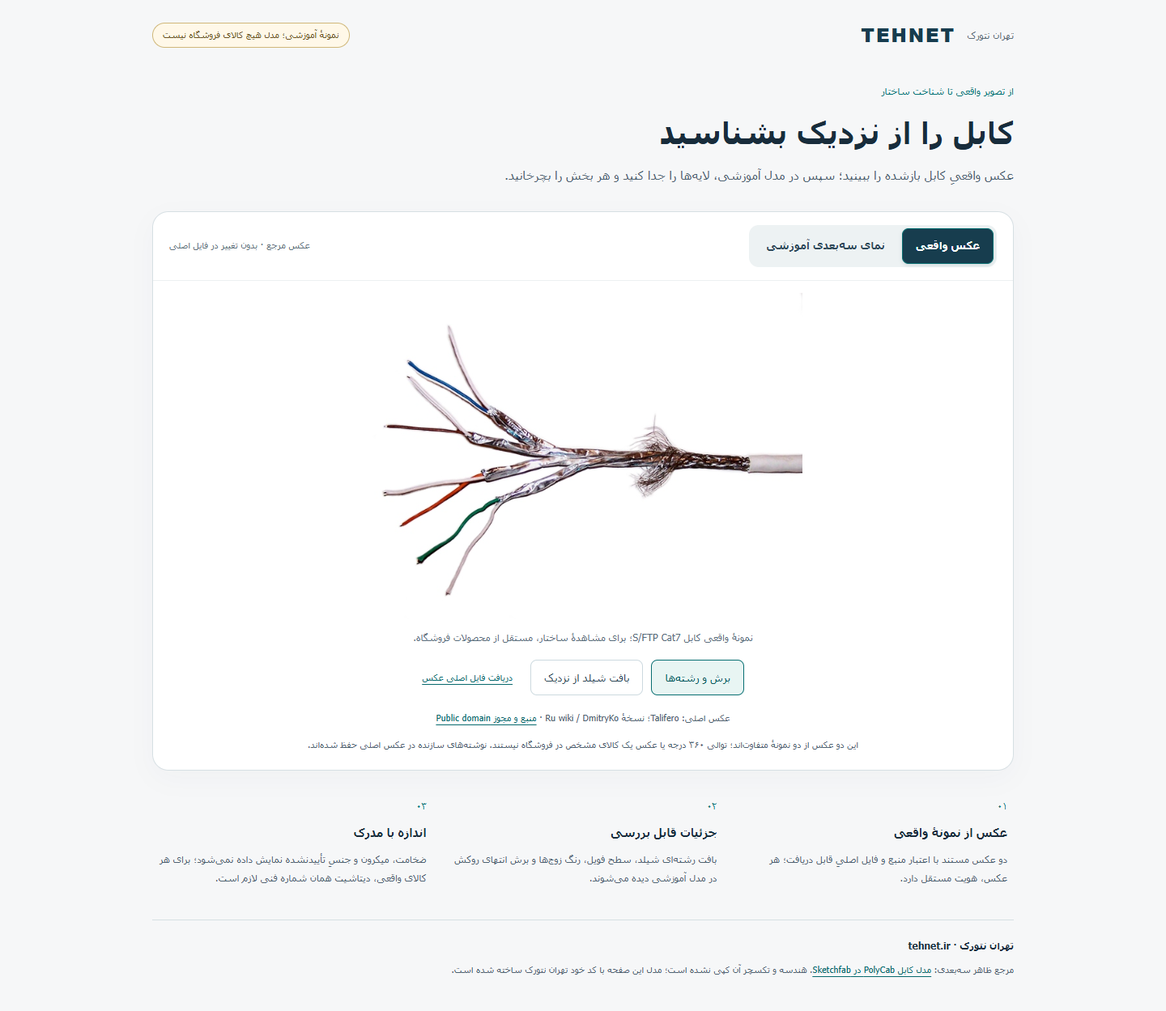
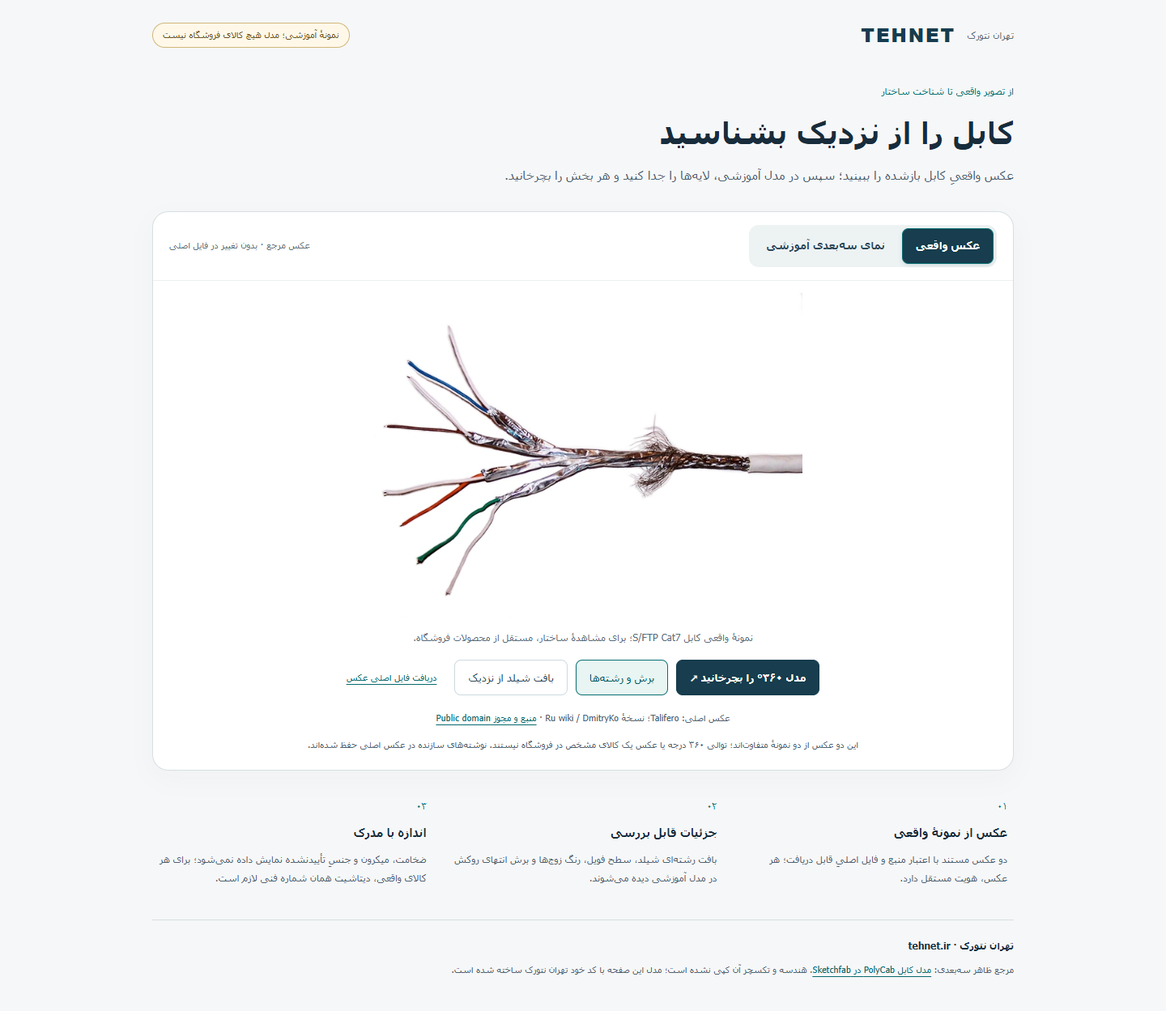
feat: expose interactive cable rotation zoom and fullscreen controls

Changed region(s): [[0.3438, 0.6245, 0.7188, 0.6869]]

diff --git a/ops/visuals/cable-demo.css b/ops/visuals/cable-demo.css
@@ -1,2 +1,3 @@
 :root{--tn-ink:#182c3b;--tn-muted:#4e6271;--tn-accent:#076e71;--tn-surface:#f4f6f7;--tn-border:#d6dfe3}
+.open-model-cta{background:#173d4e;color:white;border-color:#173d4e;font-weight:700}.gesture-help{font-size:12px;background:#eaf4f3;border-radius:10px;padding:12px 14px;margin-block:14px;color:#24535b}.model-canvas{position:relative}.model-canvas model-viewer{cursor:grab}.model-canvas model-viewer:active{cursor:grabbing}.model-toolbar{display:flex;justify-content:center;gap:8px;flex-wrap:wrap;padding:12px 6px;background:#f4f7f8;border:1px solid #e1e8eb;border-radius:12px;margin-block:10px}.model-toolbar button{background:#fff;font-size:12px!important;min-height:44px}.model-toolbar [data-demo-action=rotate][aria-pressed=true]{background:#173d4e;color:white}.demo-status{font-size:11px;min-height:21px}.model-canvas:fullscreen{display:flex;flex-direction:column;width:100vw;height:100dvh;background:#f2f4f6;padding:12px}.model-canvas:fullscreen [data-tn-model-stage]{flex:1;min-height:0}.tn-reviewed-model .model-canvas:fullscreen model-viewer{height:100%;max-height:none;margin:0;border:0}.model-canvas:fullscreen .model-toolbar{margin-bottom:0;flex-shrink:0}@media(max-width:650px){.photo-options .open-model-cta{flex-basis:100%;font-size:13px}.model-toolbar{gap:6px}.model-toolbar button{flex:1;min-width:90px;padding:8px!important}.gesture-help{font-size:11px}.model-canvas:fullscreen{padding:6px}.model-toolbar [data-demo-action=zoom-in],.model-toolbar [data-demo-action=zoom-out]{min-width:70px}}
 *{box-sizing:border-box}body{margin:0;background:#f6f7f8;color:var(--tn-ink);font:15px/1.9 Tahoma,Arial,sans-serif}main{max-width:1120px;margin:auto;padding:26px 28px 32px}a{color:#07696d;text-underline-offset:4px}header{display:flex;justify-content:space-between;align-items:center;gap:18px;flex-wrap:wrap}.wordmark{font:800 23px/1.5 Arial,sans-serif;letter-spacing:2px;text-decoration:none;color:#173c4e;display:flex;align-items:center;gap:14px;direction:ltr}.wordmark span{font:12px Tahoma,sans-serif;letter-spacing:0;direction:rtl;color:#5b6c77}.tag{font-size:11px;border:1px solid #cfb779;background:#fff8e8;color:#69511f;padding:4px 12px;border-radius:30px}.intro{padding:36px 0 22px}.eyebrow{font-size:12px;color:#067477}h1{font-size:clamp(25px,4vw,37px);line-height:1.6;margin:9px 0}h2{font-size:17px}p{color:var(--tn-muted);margin:8px 0}.intro p{max-width:760px}.gallery{background:#fff;border:1px solid var(--tn-border);border-radius:20px;overflow:hidden;box-shadow:0 10px 32px #20344107}.gallery-bar{display:flex;gap:12px;align-items:center;justify-content:space-between;padding:16px 20px;border-bottom:1px solid #edf0f2}.view-switch{display:flex;gap:4px;padding:4px;background:#edf2f3;border-radius:12px}.view-switch button{background:transparent;border-color:transparent;font-weight:700}.view-switch button[aria-pressed=true]{background:#173d4e;color:#fff;box-shadow:0 2px 5px #12344120}.gallery-note{font-size:11px;color:#61717b}button{font:inherit;font-size:13px;color:#2d4858;border:1px solid #ccd9df;background:#fff;border-radius:8px;min-height:44px;padding:8px 16px;cursor:pointer}button:hover{border-color:#087b7e}button[aria-pressed=true]{border-color:#076e71;background:#e8f5f3;color:#07595d}button:focus-visible,input:focus-visible,a:focus-visible{outline:3px solid #087b7e;outline-offset:4px}button:disabled{opacity:.6;cursor:wait}[hidden]{display:none!important}.photo-main{margin:0;padding:14px 22px 0}.photo-main img{display:block;width:100%;height:405px;object-fit:contain;background:white}.photo-main figcaption{font-size:12px;text-align:center;color:#586d7b;padding-top:10px}.photo-options{display:flex;align-items:center;justify-content:center;gap:10px;flex-wrap:wrap;padding:17px 22px 6px}.photo-options a{font-size:11px;margin-inline-start:12px}.photo-credit{font-size:11px;text-align:center;padding:4px 20px}.caption-note{max-width:780px;text-align:center;font-size:11px;margin:8px auto 20px;padding-inline:20px}.tn-reviewed-model{border:0;border-radius:0;margin:0;padding:20px}.tn-reviewed-model h2{margin:0}.model-caption{font-size:12px}.tn-reviewed-model model-viewer{height:450px;max-height:65vh;background:radial-gradient(ellipse at 50% 65%,#fff 0,#f1f3f5 70%);margin-top:12px;border:1px solid #edf0f2}.tn-reviewed-model [data-tn-model-stage]:has(model-viewer)::after{font-size:15px;bottom:6%;color:#203c49;opacity:.3}.tn-reviewed-model .tn-model-controls{justify-content:center;gap:8px}.tn-reviewed-model button{padding:8px 14px;font-size:12px}.tn-parts-list{gap:6px}.tn-part-detail{border-radius:12px;background:#f7f9fa;font-size:13px}.tn-part-detail h4{margin-top:0}.tn-part-detail a{font-size:11px}.tn-part-detail dd{direction:ltr}[data-tn-parts-panel]>label{font-size:12px}[data-tn-explode]{background:#173d4e;color:#fff;border-color:#173d4e;margin-top:15px}[data-tn-explode][aria-pressed=true]{background:#e8f5f3;color:#07595d}[data-tn-explode-range]{accent-color:#087b7e}[data-tn-model-message]{font-size:11px}.visual-notes{display:grid;grid-template-columns:repeat(3,1fr);gap:28px;padding:28px 8px 18px}.visual-notes h2{font-size:14px;margin:7px 0}.visual-notes p{font-size:12px}.step{font-size:11px;color:#087477}footer{border-top:1px solid var(--tn-border);margin-top:14px;padding-top:20px;font-size:11px}footer strong{font-size:12px}footer p{max-width:860px}@media(max-width:650px){main{padding:18px 14px}.wordmark{font-size:20px}.wordmark span{display:none}.tag{font-size:10px}.intro{padding-top:25px}.intro p{font-size:13px}.gallery-bar{padding:12px;display:block}.view-switch{display:flex}.view-switch button{flex:1;padding:8px;font-size:12px}.gallery-note{display:block;margin-top:8px;text-align:center}.photo-main{padding:10px 10px 0}.photo-main img{height:300px}.photo-main figcaption{font-size:11px}.photo-options{padding:12px 10px 4px;gap:8px}.photo-options button{font-size:11px;padding:8px 10px}.photo-options a{margin:0;flex-basis:100%;text-align:center}.photo-credit{padding:4px 12px}.tn-reviewed-model{padding:12px}.tn-reviewed-model model-viewer{height:390px}.tn-parts-list button{flex:1;min-width:110px}.visual-notes{grid-template-columns:1fr;gap:16px;padding-block:22px}.visual-notes>div{padding-inline-start:14px;border-inline-start:2px solid #d6e7e8}.visual-notes h2{margin-top:0}.tn-part-detail{padding:12px}}@media(prefers-reduced-motion:reduce){*{scroll-behavior:auto!important}}

diff --git a/ops/visuals/cable-controls.js b/ops/visuals/cable-controls.js
@@ -1,0 +1,76 @@
+/* Explicit controls for the educational preview; no production asset mapping. */
+(()=>{
+ const panel=document.getElementById('model-panel'),canvas=panel.querySelector('[data-model-canvas]');
+ const toolbar=panel.querySelector('[data-demo-toolbar]'),status=panel.querySelector('[data-demo-status]');
+ const rotate=toolbar.querySelector('[data-demo-action="rotate"]'),fullscreen=toolbar.querySelector('[data-demo-action="fullscreen"]');
+ const reduced=matchMedia('(prefers-reduced-motion:reduce)');
+ let initialFov='auto';
+ const viewer=()=>panel.querySelector('model-viewer');
+ const amount=()=>Number(panel.querySelector('[data-tn-explode-range]')?.value||0)/100;
+ const stopRotation=()=>{
+  viewer()?.removeAttribute('auto-rotate');rotate.setAttribute('aria-pressed','false');rotate.textContent='چرخش خودکار';
+ };
+ const syncMotionPreference=()=>{
+  rotate.disabled=reduced.matches;
+  rotate.title=reduced.matches?'چرخش خودکار با تنظیم کاهش حرکت غیرفعال است؛ میتوانید مدل را دستی بچرخانید.':'';
+  if(reduced.matches)stopRotation();
+ };
+ document.querySelector('[data-open-model]').addEventListener('click',()=>{
+  document.querySelector('[data-view="model"]').click();
+  panel.scrollIntoView({block:'start',behavior:reduced.matches?'instant':'smooth'});
+ });
+ document.querySelector('[data-view="photo"]').addEventListener('click',stopRotation);
+ document.addEventListener('visibilitychange',()=>{if(document.hidden)stopRotation()});
+ reduced.addEventListener('change',syncMotionPreference);
+ document.addEventListener('tn:media-load',()=>{
+  const model=viewer();if(!model)return;
+  initialFov=model.fieldOfView;
+  // The user has explicitly entered the interactive panel. Keep drag gestures
+  // inside this canvas; page scrolling remains available around it.
+  model.setAttribute('touch-action','none');model.setAttribute('aria-describedby','model-gesture-help');
+  model.setAttribute('auto-rotate-delay','0');model.setAttribute('rotation-per-second','20deg');
+  toolbar.hidden=false;fullscreen.hidden=!document.fullscreenEnabled||!canvas.requestFullscreen;
+  syncMotionPreference();
+  status.textContent='آمادهٔ چرخش؛ مدل را با موس یا انگشت بکشید.';
+ });
+ toolbar.addEventListener('click',async event=>{
+  const button=event.target.closest('[data-demo-action]'),model=viewer();
+  if(!button||!model?.loaded)return;
+  switch(button.dataset.demoAction){
+   case 'zoom-in':model.zoom(2);break;
+   case 'zoom-out':model.zoom(-2);break;
+   case 'rotate':{
+    if(reduced.matches)return;
+    const start=rotate.getAttribute('aria-pressed')!=='true';
+    model.toggleAttribute('auto-rotate',start);rotate.setAttribute('aria-pressed',String(start));
+    rotate.textContent=start?'توقف چرخش':'چرخش خودکار';
+    status.textContent=start?'چرخش خودکار فعال است.':'چرخش خودکار متوقف شد.';break;
+   }
+   case 'home':
+    stopRotation();model.resetTurntableRotation();
+    // Gestures change the live FoV without changing the declarative property.
+    // Restore its original aspect-aware value and await the asynchronous jump
+    // before fitting bounds; otherwise portrait zoom uses a stale live FoV.
+    model.fieldOfView=initialFov;model.requestUpdate('fieldOfView');
+    await model.updateComplete;model.jumpCameraToGoal();await model.updateComplete;
+    frameIllustration(amount(),{theta:10*Math.PI/180,phi:75*Math.PI/180});
+    await model.updateComplete;
+    status.textContent='زاویه، زوم و مرکز مدل بازنشانی شد.';break;
+   case 'fullscreen':
+    try{
+     if(document.fullscreenElement===canvas)await document.exitFullscreen();
+     else await canvas.requestFullscreen();
+    }catch{status.textContent='مرورگر اجازهٔ تمامصفحه نداد؛ مدل در همین قاب قابل بررسی است.'}
+    break;
+  }
+ });
+ document.addEventListener('fullscreenchange',()=>{
+  const active=document.fullscreenElement===canvas;
+  fullscreen.setAttribute('aria-pressed',String(active));fullscreen.textContent=active?'خروج از تمامصفحه':'تمامصفحه';
+  requestAnimationFrame(()=>frameIllustration(amount()));
+ });
+ // A direct URL is an explicit entrance to the interactive model. The ordinary
+ // gallery still starts with the real photograph and defers the GLB.
+ if(new URLSearchParams(location.search).get('view')==='3d')
+  document.querySelector('[data-open-model]').click();
+})();

diff --git a/ops/visuals/cable-demo.html b/ops/visuals/cable-demo.html
@@ -34,7 +34,8 @@
              alt="عکس واقعی یک نمونه کابل Cat7 بازشده؛ زوجهای رنگی، فویل و شیلد بافتهشده؛ این عکس کالای تهران نتورک نیست">
         <figcaption>نمونهٔ واقعی کابل S/FTP Cat7؛ برای مشاهدهٔ ساختار، مستقل از محصولات فروشگاه.</figcaption>
       </figure>
-      <div class="photo-options" role="group" aria-label="انتخاب عکس مرجع">
+      <div class="photo-options" role="group" aria-label="انتخاب عکس یا مدل مرجع">
+        <button type="button" class="open-model-cta" data-open-model>مدل ۳۶۰° را بچرخانید ↗</button>
         <button type="button" data-photo="0" aria-pressed="true">برش و رشتهها</button>
         <button type="button" data-photo="1" aria-pressed="false">بافت شیلد از نزدیک</button>
         <a id="photo-original" href="sftp-cat7-talifero.jpg" download>دریافت فایل اصلی عکس</a>
@@ -48,8 +49,19 @@
       data-model-src="/educational-cable.glb" data-model-module="/model-viewer.min.js" data-model-parts="@@PARTS@@">
       <h2>ساختار لایهای، قابل چرخش و بازشدن</h2>
       <p class="model-caption">مدل آموزشیِ تألیفی با تناسبهای غیرمقیاس؛ بازسازی دقیق عکس یا CAD محصول نیست.</p>
+      <p id="model-gesture-help" class="gesture-help"><strong>مدل را بگیرید و بچرخانید.</strong> زوم با چرخ موس یا باز و بسته کردن دو انگشت؛ جابهجایی با راستکلیک و کشیدن یا حرکت دو انگشت.</p>
       <button type="button" data-tn-model-open>بارگذاری مدل سهبعدی</button>
-      <div data-tn-model-stage></div>
+      <div class="model-canvas" data-model-canvas>
+        <div data-tn-model-stage></div>
+        <div class="model-toolbar" data-demo-toolbar role="group" aria-label="کنترل مدل سهبعدی" hidden>
+          <button type="button" data-demo-action="zoom-in" aria-label="بزرگنمایی مدل">＋ <span>نزدیکتر</span></button>
+          <button type="button" data-demo-action="zoom-out" aria-label="کوچکنمایی مدل">− <span>دورتر</span></button>
+          <button type="button" data-demo-action="rotate" aria-pressed="false">چرخش خودکار</button>
+          <button type="button" data-demo-action="home">نمای اولیه</button>
+          <button type="button" data-demo-action="fullscreen" aria-pressed="false">تمامصفحه</button>
+        </div>
+      </div>
+      <p class="demo-status" data-demo-status role="status" aria-live="polite"></p>
       <p role="status" data-tn-model-message aria-live="polite"></p>
       <div class="tn-model-controls" hidden>
         <button type="button" data-orbit="left">چپ</button><button type="button" data-orbit="right">راست</button>
@@ -71,5 +83,6 @@
 </main>
 <script src="cable-demo.js"></script>
 <script src="reviewed-model.js"></script>
+<script src="cable-controls.js"></script>
 </body>
 </html>

diff --git a/ops/visuals/cable-demo.js b/ops/visuals/cable-demo.js
@@ -36,14 +36,14 @@ new MutationObserver(()=>{
 }).observe(modelPanel.querySelector('[data-tn-model-stage]'),{childList:true});
 // Fit the actual illustrative bounds, rather than a generic bounding sphere.
 // This is local presentation data; these coordinates are never real dimensions.
-function frameIllustration(amount){
+function frameIllustration(amount,orientation){
  const viewer=modelPanel.querySelector('model-viewer');if(!viewer?.loaded||modelPanel.hidden)return;
  const parts=JSON.parse(modelPanel.dataset.modelParts).parts,lo=[Infinity,Infinity,Infinity],hi=[-Infinity,-Infinity,-Infinity];
  parts.forEach(p=>p.illustration_bounds.forEach((bound,side)=>bound.forEach((v,k)=>{
   const position=v+p.target[k]*amount;
   if(side===0)lo[k]=Math.min(lo[k],position);else hi[k]=Math.max(hi[k],position);
  })));
- const target=lo.map((v,k)=>(v+hi[k])/2),orbit=viewer.getCameraOrbit(),theta=orbit.theta,phi=orbit.phi;
+ const target=lo.map((v,k)=>(v+hi[k])/2),orbit=viewer.getCameraOrbit(),theta=orientation?.theta??orbit.theta,phi=orientation?.phi??orbit.phi;
  const forward=[Math.sin(theta)*Math.sin(phi),Math.cos(phi),Math.cos(theta)*Math.sin(phi)];
  const right=[Math.cos(theta),0,-Math.sin(theta)],up=[-Math.sin(theta)*Math.cos(phi),Math.sin(phi),-Math.cos(theta)*Math.cos(phi)];
  const tanV=Math.tan(viewer.getFieldOfView()*Math.PI/360),tanH=tanV*viewer.clientWidth/Math.max(1,viewer.clientHeight);

diff --git a/ops/build-exploded-demo.py b/ops/build-exploded-demo.py
@@ -254,7 +254,7 @@ def main():
     data, size = build_model(out)
     template = (ROOT/'ops/visuals/cable-demo.html').read_text(encoding='utf-8')
     (out/'index.html').write_text(template.replace('@@PARTS@@', html.escape(json.dumps(data, ensure_ascii=False), quote=True)), encoding='utf-8')
-    for name in ['cable-demo.css', 'cable-demo.js']:
+    for name in ['cable-demo.css', 'cable-demo.js', 'cable-controls.js']:
         shutil.copyfile(ROOT/'ops/visuals'/name, out/name)
     for src, dest in [('assets/reviewed-model.js', 'reviewed-model.js'), ('assets/store.css', 'store.css'),
                       ('assets/vendor/model-viewer/model-viewer.min.js', 'model-viewer.min.js'),

diff --git a/docs/research/product-visuals-2026-10-16.fa.md b/docs/research/product-visuals-2026-10-16.fa.md
@@ -41,3 +41,13 @@
 ## ادامهٔ دقیق برای کالاهای فروشگاه
 
 برای هر SKU، عکس مستندِ همان شماره فنی یا نمونهٔ فیزیکی و مجوز سازنده باید با هم تطبیق داده شوند. منابع عمومی و کاتالوگ فعلی هنوز این تطابق را برای ۲۵ محصول اثبات نکردهاند. گالری یا فایل GLB آموزشی نباید بهجای این مدرک به محصول الصاق شود. قیمت، موجودی، پرداخت/ERP و وضعیت نمایهسازی فعلی همان وضعیت تأییدشدهٔ مرحلهٔ قبل است.
+
+## ادامه: کنترل آشکار مدل سهبعدی
+
+در پاسخ به درخواست بعدی مالک، ورود مستقیم به مدل در `http://localhost:18084/?view=3d` و دکمهٔ «مدل ۳۶۰° را بچرخانید» اضافه شد. نوار ابزار، زوم، چرخش خودکار/توقف، تمامصفحه/خروج و بازنشانی کامل زاویه، مرکز و اندازهٔ نمایش را دارد. کشیدن موس یا یک انگشت مدل را میچرخاند؛ راستکلیک/دو انگشت جابهجا میکند و پینچ زوم میکند. صفحهٔ معمولی همچنان با عکس واقعی شروع میشود و مدل را تا انتخاب کاربر دریافت نمیکند.
+
+کنترلها فقط در فایل محلی `ops/visuals/cable-controls.js` هستند و از API موجودِ بستهٔ بررسیشدهٔ model-viewer4.4.0 استفاده میکنند؛ APIهای `zoom`، `turntableRotation`، `resetTurntableRotation` و تنظیمات دوربین در همان فایل vendor بررسی شدند. هیچ CAD یا مدل محصول جدیدی دریافت/منتشر نشد. چرخش خودکار نیاز به انتخاب کاربر دارد، هنگام تغییر پنل به عکس/پنهانشدن صفحه متوقف میشود و با ترجیح کاهش حرکت خاموش است. تمامصفحه در صورت پشتیبانی مرورگر ارائه میشود؛ رد درخواست، پیام قابل فهم دارد.
+
+آزمون تازه: `rtk proxy node tests/browser/cable-interaction.cjs qa/product-visuals-2026-10-16/interaction` — **۲۶ بررسی موفق**. چرخش و پن با رویداد موس، چرخش یکانگشتی، زوم و پن دو انگشتی با CDP، تغییر واقعی اندازهٔ تصویر مدل، تغییر yaw بومی در چرخش خودکار، توقف، ترجیح کاهش حرکت، تمامصفحه و بازنشانی نما اجرا شدند. این آزمون مرورگر با لمس شبیهسازیشده است؛ دستگاه فیزیکی موبایل آزموده نشده است. ۳۰ بررسی پایهٔ مرورگر و ۱۲ بررسی ساختار/عکس نیز مجدداً گذشتند. نتیجه و سه اسکرینشات مشاهدهشده در زیرپوشهٔ `interaction` ثبتاند.
+
+آزمون، ایراد واقعی بازنشانی پس از پینچ در نمای عمودی را پیدا کرد: مقدار FoV زنده با تنظیم اعلامیِ اولیه یکسان نیست و `jumpCameraToGoal` نیز غیرهمزمان اجرا میشود. تنظیم اولیهٔ aspect-aware بازیابی و update/پرش تکمیل میشود، سپس قاب از حدود مدل محاسبه میشود؛ این مسیر در آزمون لمس پوشش دارد. بررسی زوم با شعاع دوربین بهتنهایی کافی نبود؛ اندازهٔ تصویر با شعاع و FoV با هم سنجیده شد. فایل مدل و عکسها تغییر نکردهاند و سایت تولید در این ادامه ویرایش نشده است.

diff --git a/HANDOFF.md b/HANDOFF.md
@@ -1,5 +1,11 @@
 # TehNet Agent Handoff
 
+## CURRENT — explicit interactive3D controls, 2026-10-16
+
+Owner requested visible rotation/inspection. Local demo now has a prominent3D entrance, gesture guide, zoom buttons, opt-in auto-rotation/stop, fullscreen/exit and full camera reset. Direct link: `http://localhost:18084/?view=3d`. Ordinary URL still starts with real photographs; production remains unchanged. Demo-only controller `ops/visuals/cable-controls.js` uses the existing self-hosted model-viewer4.4.0. Hidden panels/background and reduced-motion changes stop auto-rotation; reduced motion disables its button. Fullscreen is offered where supported, with a fallback message on denial.
+
+Fresh26 actual mouse/CDP-touch checks plus30 base browser and12 GLB/photo checks pass. Evidence and inspected desktop/mobile/fullscreen screenshots: `qa/product-visuals-2026-10-16/interaction/`. Mouse rotation/pan, two-finger pinch/pan, zoom projection, native turntable yaw and portrait reset were exercised. Reset must restore declarative `fieldOfView` (initially auto), request its update, await updateComplete and the asynchronous jump before recomputing bounds; using a stale live FoV made portrait reset too small. GLB and actual photo bytes are unchanged; exact-SKU/CAD limitations below remain. No GLM/new paid API or production release in this step.
+
 ## CURRENT — real-photo-first local preview, 2026-10-16
 
 Owner requested real/natural imagery and inspiration from public 3D model sites while reviewing localhost18084. `ops/build-exploded-demo.py` now builds two unchanged, checksummed public-domain real Cat7 reference photographs, visible source/credit/download, explicit photo/model switch and improved original PBR cable geometry. These are independent educational photographs, not TehNet SKU images or a360 sequence; normalized geometry is not exact product CAD or a reconstruction of either photo. Source-catalog photographic origin and exact model identity remain unverified. No production runtime/content/settings changed in this step.

diff --git a/PROGRESS.md b/PROGRESS.md
@@ -1,5 +1,12 @@
 # TehNet Execution Progress
 
+## Latest — 2026-10-16 explicit3D inspection
+
+- LOCAL: prominent3D button/direct URL `?view=3d`, drag/pinch/pan instructions, zoom, opt-in auto-rotation/stop, fullscreen and full reset. The photo-first default remains; production shared renderer, product assignments and business settings were not edited.
+- Fixed portrait reset after pinch: restore aspect-aware declarative FoV, force its update and await the asynchronous native camera jump before fitting. Gesture zoom may change FoV as well as radius; tests measure actual projected scale.
+- Fresh26 interaction checks pass, including physical mouse events and emulated touch/CDP gestures, native fullscreen and auto-rotation yaw. Fresh30 base browser and12 structural/photo checks also pass. Screenshots inspected in `qa/product-visuals-2026-10-16/interaction/`; no physical handset test claimed.
+- One focused native read-only API mapper used; no GLM/new paid API. Educational geometry remains separate from exact-product assets.
+
 ## Latest — 2026-10-16 natural educational product visuals
 
 - Local localhost18084 preview now starts with two real, original-byte public-domain Cat7 photographs with source/credit/download. They are clearly separate educational samples and not exact TehNet product images or a360 sequence.

diff --git a/TASKS.md b/TASKS.md
@@ -1,5 +1,11 @@
 # TehNet Task Backlog
 
+## CURRENT — explicit3D inspection, 2026-10-16
+
+- DONE/LOCAL — Obvious3D entrance/direct link, mouse/touch rotation and pan, native zoom, optional automatic rotation/stop, fullscreen/exit, complete camera reset and reduced-motion/background handling.
+- VERIFIED —26 mouse/touch interaction checks,30 base browser checks and12 unchanged-asset structural/photo checks; desktop/mobile/fullscreen screenshots inspected. Portrait reset after pinch is covered.
+- OPEN/UNCHANGED — Exact-MPN assets for real products; generic educational model is not live product CAD. No production changes in this continuation.
+
 ## CURRENT — natural educational preview, 2026-10-16
 
 - DONE/LOCAL — Two real public-domain reference photos, unchanged original bytes/SHA, visible source/credit/download, photo-first gallery and explicit lazy photo/3D mode switch.
